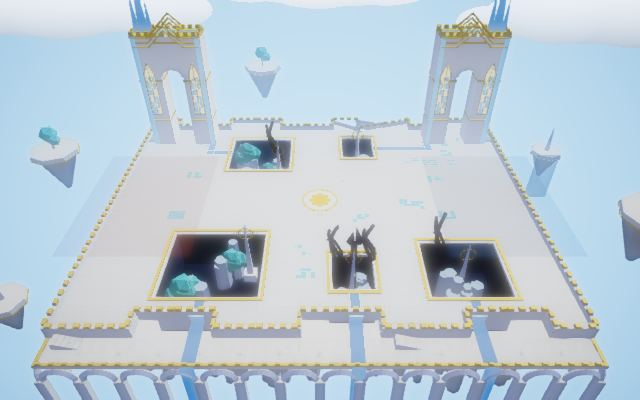
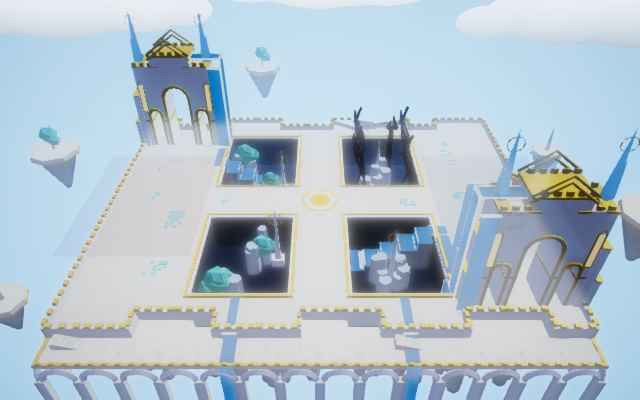
loop(608): solo map.fantasy_good 1/1 gaps approved, map.fantasy_good done, maps_4 checkpoint

Changed region(s): [[0.2188, 0.0, 1.0, 1.0], [0.1875, 0.0, 0.4688, 0.48], [0.625, 0.87, 0.6562, 1.0]]

diff --git a/loop/LEDGER.md b/loop/LEDGER.md
@@ -3,13 +3,7 @@
 Rows: `file:identifier | value | last iter | verdict | earlier values`. P: no approved reversal within 20 iterations; two failed polish attempts spend a row. S/R replace mechanisms. The unit phase's ledger is `loop/archive/v4/LEDGER.md`.
 
 ## Structural attempts (iter | sha | item.criterion | verdict)
-607 | [R] 0911dd25 | map.fantasy_good.a2 | approve, no strike (opaque gate water, far-wall falls)
-607 | [R] 5fcb8b7d | map.fantasy_good.a2 | reject, reverted ab3f294e (flat panels; colour re-nudge of 9b0909fd)
-607 | [R] b8072e41 | map.fantasy_good.a2 | approve, no strike (stepped hex-column cascades)
-606 | [R] 57397d50 | map.fantasy_good.b1-2 | approve,struck1,2 (quadrant wells, diagonal gates); CONFIRM a,b PASS
-606 | [R] 6d627f50 | map.fantasy_good.a1-2 | approve,struck1 (multi-bay gatehouses)
-606 | [R] 9b0909fd | map.fantasy_good.a2 | approve, no strike (fog-off cyan sheets)
-606 | [R] 628c2755 | map.fantasy_good.a2 | reject, reverted 639fec40 (curtains read as pale glass in _top)
+608 | [R] cff61026 | map.fantasy_good.a2 | approve,struck2 (field-side gate sheets into deck channels, gates out of glow); CONFIRM 606 a -> D
 605 | [R] fc3db046 | map.fantasy_evil.b1 | reject, rejected-kept (revert conflicts); 6 m routes, edge chambers; centre stayed solid
 605 | [R] 18965679 | map.fantasy_evil.a1-2 | approve,struck2 (ledge mushroom pads); a1 slab/gate/no-monument clauses cleared
 605 | [R] 89f441c4 | map.fantasy_evil.b1 | approve,struck1 (sunken central pit, front/back chambers, 8 m causeways)
@@ -22,27 +16,17 @@ Rows: `file:identifier | value | last iter | verdict | earlier values`. P: no ap
 602 | c3b103ee | map.pirate.b2 | approve,struck2; CONFIRM b PASS -> D
 
 ## Done maps (rows compacted; the maps are D and never tuned again)
-tribal_1, tribal_2, tribal_sandbox, farmer_1, farmer_2, farmer_snow, medieval_1, medieval_2, viking, viking_sandbox, ancient_1, ancient_sandbox, legacy (576-584), wild_west, ancient_2, renaissance, spooky_1 (565-587), simulation, hill, bridge, corridor (587-591), low_ground, defend_the_castle (588-592), high_ground (589-599), pirate (576-602), dynasty (576-603), spooky_2 (578-604), fantasy_evil (590-605): every row approved and CONFIRMed; values in their builders' spec comments and git log `loop(5xx)`.
+tribal_1, tribal_2, tribal_sandbox, farmer_1, farmer_2, farmer_snow, medieval_1, medieval_2, viking, viking_sandbox, ancient_1, ancient_sandbox, legacy (576-584), wild_west, ancient_2, renaissance, spooky_1 (565-587), simulation, hill, bridge, corridor (587-591), low_ground, defend_the_castle (588-592), high_ground (589-599), pirate (576-602), dynasty (576-603), spooky_2 (578-604), fantasy_evil (590-605), fantasy_good (587-608): every row approved and CONFIRMed; values in their builders' spec comments and git log `loop(5xx)`.
 
 ## Tuned values
-web/src/map/tabs/fantasy_good.ts:viaductUnderside front | z-46.06 crown-3.2/spring-5.9/foot-14.1,5.4m openings/~7m pitch,6m returns | 601 | approve9e419281 | z-40.06 crown-1.6/spring-4.3/foot-12.5 masked by ledge
 web/src/campaign/stagePresentation.ts:tiniestSummit | stage-only18x16m hill(20,-9.9),crest6.5,height+cleanup | 601 | approvec283afb0 | flat Farmer
 web/src/campaign/stagePresentation.ts:rider | head xz,head/crest maxY+.08,seated joints,restore before sim | 601 | approvea744ccde,c0d6c20a,799d316d | torso-local anchors hidden;flat Halfling
 web/src/campaign/stagePresentation.ts:wheelbarrowArchCrown; stages/adventure.ts:wheelbarrow | cap(1.2,7.15,10)8x.5x3.6 top7.4,cart+crew lift;actor(2.6,10) | 601 | approve5f92ad8a | absent cap/lift;actor(29,0)
 loop/scripts/capture-world.mjs:fantasyEvil poses, pirate army | island targety16 radius230, top targety12 radius160; Pirate stage army targety8.2 | 600 | evidence685f65a9,ce687e96 validated | Evil island targety8 radius200, top default; Pirate army targety1
-web/src/map/tabs/fantasy_good.ts:openArcade | 1.6m rim beam; real5.4m openings/~7m pitch, 1.1x1.3m piers to-12.5, stone arch tubes r.65; basalt12..27m | 600 | approve4834759a, no strike | 12m solid rim with dark arch plates; basalt3..16m
-web/src/map/tabs/fantasy_good.ts:gateFacades | lancets10..25.5m, 18mosaic panes/window, pointed gold frame, triple peaked bands31.7..36m on both faces | 600 | approve79aae0c6, struck a2 | rectangular yellow panes with grid and tiny diagonal tips; gate size/spires unchanged
-web/src/map/tabs/fantasy_good.ts:frontFallSpill | 2m fall to ledge, spill toz-46.35, 22m opaque drop +6m alpha fade | 600 | approve a44979d1 [P], no strike; spill visible, fade uncredited | continuous30m drop at deck rim through ledge
 web/src/campaign/stages/adventure.ts:a_fierce_rider | Mammoth leaderx2,z0, wingsx3.5,z+-4.6, rearx7,z-5.6/0/5.6; Halfling unchanged | 600 | approve d4289c91, struck b1 | Mammoths line atx2,z-12..8 step4
 web/src/campaign/stages/adventure.ts:the_tiniest_attack | 15upper+16lower irregular crop pockets x9..41,z-25..17; two obstacle clearances; Farmer unchanged | 600 | approve ffe2e899,defaf4dd, struck b2 | Halflings regular ranks x20/22.2/24.4,z+-9.9
 loop/scripts/capture-world.mjs:evidence poses | gate runtimeId departure at20ms, radius32; Basic army beta.24/field.2; Evil island targety8; Good island220/y8, top165/y8 | 599 | evidence validated; High b CONFIRM | gate attacker never arrived; Basic .77/.72; island200/y-10, top135/y0
-web/src/map/tabs/fantasy_good.ts:corruptedPits | black cracked obelisk and 4 groups of3 thorn vines, tops11..13m; r.28..38 | 599 | approve, struck a5 | absent; first vines buried in pits
-web/src/map/tabs/fantasy_good.ts:rearJog | x12..28 z32..40 band sheared by6m taper; deck/rim/kerb/parapet/arches and cut colliders | 599 | approve, struck b2 | stepped rear only
 web/src/map/tabs/ancient_1.ts:street placement zones | append4m street strips x+-(2..25), z+-10; original plazas first | 599 | stage/play PASS, formation CONFIRM D | plazas x+-(25..55) only
 web/src/map/tabs/viking.ts:innerIce zones | append x+-(1..27), z+-20; original outer zones first | 599 | stage/play PASS, formation CONFIRM D | inherited Challenge x+-(27..61) only
-web/src/map/tabs/fantasy_good.ts:pitShafts, waterfalls, frontLedge | floor (.08,.1,.16); navy liners; 6-10 hex columns r 1-2.1 tops -1.2..-6.5 (.55,.62,.72) self .3; channels 1.8 m to back pits, 3 front falls 30 m (.25,.62,1.05); ledge z -46..-40 at y -2, stairs x -50, 14 | 597 | approve | -
 web/src/campaign/stages/introduction.ts:all6 stages | approved + CONFIRMed D597-599; final formations in source/git loop(597..599); rows compacted | 599 | approve | scaffold rows
-web/src/map/tabs/fantasy_good.ts:PITS | 5 pits: tree x -34..-12 z -32..-12, obelisk 2..12 z -30..-19, open 22..40 z -32..-15, tree -26..-8 z 13..30, obelisk 6..16 z 19..31; 10 m deep, floor (.24,.3,.42) self (.06,.08,.12) | 596 | approve, struck b1 | 592: four x 6..30 z 9..30
-web/src/map/tabs/fantasy_good.ts:cleanDeck | boulder/hill/wallStone/pebble/stump/hayBale/Sanctum junk hidden with colliders; 16 inlay patches 4 x 3 x 1 m, ~half teal (.2,.62,.6), some aqua (.45,.78,.76), self .35 | 596 | approve, struck a6 | dressing on the deck
-web/src/map/tabs/fantasy_good.ts:EDGE_STEPS, viaductUnderside, sideIslets, gateTowers, openCentre, parapets, marbleDeck, heavenSky | long edges step 4 m at u -36..-20, -4..12, 28..44; arches 4 x 6.5 m every 6 m; 5 islets; towers (+-40,30) legs 6 x 19 m, glass, water; gold ring 8.5 m; merlons every 2.4 m; pavers (236,240,244); sky (112,182,228) | 595 | approve (591-595); [P] eligible to 598: arch heads rotation (PI/2,0,0), columns longer | base temple, tree ring
 web/src/map/tabs/simKit.ts:paleSky/untoned, cloudBanks, gridMaterial | sky untoned (186,207,210)/(216,228,227); banks z 200-240 y -22..-12 untoned white; 1 m grid tiles | 591 | approve (588-591) | teal sky, banks out of frame

diff --git a/loop/LESSONS.md b/loop/LESSONS.md
@@ -26,7 +26,7 @@ Read at step 1; merge near cap. Unit-phase lessons: loop/archive/v4/LESSONS.md.
 
 ## Maps and stages
 - Inherited placement zones can omit clear streets or inner ice. Append valid side-specific strips, keeping the original skirmish zone first (599).
-- The sim's ground is flat (body.root at y 0); terrain.ts lifts every dynamic root node by MapBuildResult.height at draw time and recomputes its world matrices after, so battles are identical with or without height (checked on Hill). Map meshes are marked static by trackMapBuild: a map builder seats its own props at groundHeightAt(). Nav and placement still come from zones, obstacles and hazards. An effect whose root sits at the origin with world-placed children is lifted by the height at the origin: give such roots their own position.
+- The sim ground is flat (root y 0); terrain.ts lifts dynamic roots by MapBuildResult.height at draw time and recomputes world matrices after, so battles are identical with or without height (Hill). Map meshes are static (trackMapBuild): a builder seats props at groundHeightAt(). Nav/placement come from zones, obstacles, hazards. An effect rooted at the origin with world-placed children is lifted by the origin height: give such roots their own position.
 - terrainMesh winds its grid to face +y; skirts are double-sided. The placement centre line and zone overlays stay flat (they are map meshes).
 - A TABS map without a builder in web/src/map/tabs/ is its base map (tabsMaps.ts); several maps share a base, so a base edit moves all of them and the regression scenarios on campaign.adventure.
 - Clear base props by name after base(), removing only their colliders (ring trees have them too). Keep builders self-contained so reverts never conflict. Base "hill" mounds and odd ground discs are base meshes: hide by name (587).
@@ -41,7 +41,7 @@ Read at step 1; merge near cap. Unit-phase lessons: loop/archive/v4/LESSONS.md.
 - Round island (560): base lawn ("ground", "centerGrass") and underside follow islandRim (superellipse 54x48, power 3); remap radially. hazeTreeline (merged grey balls at |z| 37.5-40.5) reads as a boulder chain: hide it whole (pirate 585). Base trunks are unparented.
 - Scene fog is linear and re-keyed every frame by main.ts (fogStart/End from the camera radius): a map's fogDensity does nothing. Draw haze instead (inside-facing translucent mist walls, viking 572).
 - Farmer base ring trees are oaks ("oakCrown" lumps on oakLeaves/oakLeavesDark): recolour those, not canopy (561). A raised drawn-only set piece can carry units via MapBuildResult.height (farmer_1 bridgeHeight).
-- A ribbon's facing follows its path order (SSAO greys a DOUBLESIDE one's inward faces): a down-facing deck renders black; check the first normal after convertToFlatShadedMesh and flipFaces(true) when wrong (561; viking bankFace 574 went near black). An underside facing away from the sun needs self-light ~1x its colour or it reads near black.
+- A ribbon faces by path order (SSAO greys a DOUBLESIDE one inside): a down-facing deck renders black; check the first normal after convertToFlatShadedMesh, flipFaces(true) if wrong (561, 574). An underside away from the sun needs self-light ~1x its colour.
 - Read stage armies from the stage files, not Notes (tribal_2 563). campaign.challenge zones reach x +-61, past the 54 m rim: a builder that walls the field clips placementZones inside it.
 - Upright tessellation-5/6 cylinders with flat tops read as basalt columns or a palisade (563): a rock mass wants heaped faceted boulders or tilted slabs, few and large, of unequal size (spooky_1 583: equal rocks read as an even band).
 - Stage enemy positions are validated against the map's team-1 zone, hazards and obstacles (game.checkStage): a map change can misplace a stage's army (the checkpoint re-judges every stage on a finished map batch).
@@ -56,7 +56,8 @@ Read at step 1; merge near cap. Unit-phase lessons: loop/archive/v4/LESSONS.md.
 - Grass: thin-instance fans of six blades, normals up (583); flattened IcoSpheres read as paving from low cameras, leaf cards as beige flags (571).
 - MergeMeshes: null past 65536 verts unless (parts,true,true); throws on mixed attributes (VertexData needs uvs); a throwing build leaks into later maps (593).
 - A boulder heap receiving shadows goes near black: receiveShadows off, self .6 (583); slate (.09) vanishes on a void sky (595). Back cliff ledges with a skirt (584).
-- Builder hazards get no overlay: draw them (578). Self-lit/pale meshes in the glow bloom white, a lit crag on the void a blur: exclude them (584-597).
+- Builder hazards get no overlay: draw them (578). Self-lit/pale meshes in the glow bloom white and veil nearby water: exclude them (584-608).
+- Water from a structure is credited only as one run visible in the named shot (source face, channel, cascade); loose pieces read as tiles (608).
 - Stage _army: camera west of the line, -z on the right; roofs can hide ranks. Use a high view for street armies (583,599).
 - HeightField lifts passers-by onto roofs: actor-only seats need paired render observers, restored transforms before simulation and cleanup on reset (598,601).
 - The island cam never sees under the slab: a backdrop or rock mass must rise above the deck behind the rim (fantasy_evil 596). Notches: ~8 m hide under trees/rocks; pushing radial floor verts to a cut's nearest edge bevels it (596, 598).

diff --git a/loop/STATE.md b/loop/STATE.md
@@ -1,6 +1,5 @@
 # Loop state (v11: maps then stages; solo mode for stuck items; locked-list CONFIRM before done)
-Iteration: 607   Batch: maps_4+stages_adventure   Consecutive empty: 0   Done: 37/99   Parked: 0
-Solo: map.fantasy_good   Queue: (empty)   Rounds: 6   Dry: 5
+Iteration: 608   Batch: stages_adventure   Consecutive empty: 0   Done: 38/99   Parked: 0
 Batches, in order: maps_1, maps_2, maps_3, maps_4, stages_introduction, stages_adventure, stages_challenge, stages_dynasty, stages_renaissance, stages_pirate, stages_spooky, stages_simulation, stages_wild_west, stages_legacy, stages_fantasy_good, stages_fantasy_evil
 <!-- Item template: # <id>; Status: open|done|parked Audited: N(AUDIT x2),N(CONFIRM: passed a; failed b) Done: N
 ## Verdicts: a FAIL (0 since N; list from AUDIT|CONFIRM N): 1. <blocker verbatim> s2. <element> in <shot> (struck N) / a PASS(N: struck n; CONFIRM N); b likewise; c PASS(N judge) / c FAIL(N judge): <reasons>
@@ -12,7 +11,7 @@ Marks per a b c: + pass,- fail,? unscored. Status q queued,o open,D done,p parke
 maps_1: tribal_1 +++ D | tribal_2 +++ D | tribal_sandbox +++ D | farmer_1 +++ D | farmer_2 +++ D | farmer_snow +++ D
 maps_2: medieval_1 +++ D | medieval_2 +++ D | ancient_1 +++ D | ancient_2 +++ D | ancient_sandbox +++ D | viking +++ D | viking_sandbox +++ D
 maps_3: dynasty +++ D | renaissance +++ D | pirate +++ D | spooky_1 +++ D | spooky_2 +++ D | wild_west +++ D | legacy +++ D
-maps_4: fantasy_good -++ o | fantasy_evil +++ D | simulation +++ D | bridge +++ D | hill +++ D | corridor +++ D | defend_the_castle +++ D | high_ground +++ D | low_ground +++ D
+maps_4: fantasy_good +++ D | fantasy_evil +++ D | simulation +++ D | bridge +++ D | hill +++ D | corridor +++ D | defend_the_castle +++ D | high_ground +++ D | low_ground +++ D
 stages_introduction: clubs +++ D | army +++ D | hay_and_pitchforks +++ D | basic_formation +++ D | ice_archers_only_almost +++ D | longships +++ D
 stages_adventure: tree_tribe +-+ o | the_tiniest_attack +++ D | sneaky_tribe +-+ o | tree_mammoths +-+ o | final_destination_wheelbarrow +++ D | a_fierce_rider +++ D
 stages_challenge: ice_archer_and_friends ??? q | knights_and_priests ??? q | a_warm_welcome ??? q | zeus ??? q | twin_lords ??? q | big_brawl ??? q
@@ -26,18 +25,18 @@ stages_legacy: siege ??? q | a_tank ??? q | the_war ??? q | thor_s_battle ??? q
 stages_fantasy_good: colossal_spike ??? q | royal_archers ??? q | clash_of_warriors ??? q | chaotic_cavalry ??? q | vicious_terror ??? q | fortified_formation ??? q
 stages_fantasy_evil: encircling_tribe ??? q | raze_the_homestead ??? q | farmer_uprising_evil ??? q | storm_the_fortress ??? q | blasted_skirmish ??? q | dismantle_the_spears ??? q
 
-## Focus (iter607 solo map.fantasy_good, 3 rounds: 3 [R]; BASE dfe21e11)
-- r1 [R] a2 (0911dd25) APPROVE, no strike; r2 [R] a2 (5fcb8b7d) REJECT, reverted ab3f294e; r3 [R] a2 (b8072e41) APPROVE, no strike
-- 2/3, 0 struck
+## Focus (iter608 solo map.fantasy_good, 1 round: 1 [R]; BASE c55e159f)
+- r1 [R] a2 (cff61026) APPROVE, struck 2 -> a PASS (CONFIRM 606 on the locked list) -> D
+- 1/1, 1 struck
 
 ## Last verdicts (critic header lines verbatim)
-GAP: [R] map.fantasy_good (b8072e41)
+GAP: [R] map.fantasy_good (cff61026)
 VERDICT: APPROVE
-CRITERION: map.fantasy_good.a FAIL   (previous: FAIL)
-REGRESSIONS: none
+CRITERION: map.fantasy_good.a PASS   (previous: FAIL)
+REGRESSIONS: none (b's quadrant wells, diagonal gates and open centre are unchanged in _top, _island and _battle. The obelisk move stays inside an existing well. c: judge.json PASS; the skirmish ended at 25 s with nobody in a hazard.)
 
 ## Notes for next iteration (max5lines)
-- 607 solo fantasy_good (iter-607/critic.md, -r2, -r3): a2 (gate waterfalls) still open; b confirmed; a CONFIRMed 606, so a critic PASS on a2 makes it D.
-- Dry 5: the next round with no strike parks a (p). Next: [R] a2 per the item's Ranked gap (one continuous stream, vines out, foam at lips only; no colour-only change).
-- When fantasy_good is D or p: drop Solo, run the maps_4 checkpoint (step 8), batch mode resumes at stages_adventure (3 open).
+- 608: map.fantasy_good D (iter-608/critic.md); solo mode ended (Queue empty). Thumbnail refreshed.
+- maps_4 checkpoint: 7 stages on its maps (legacy.siege, simulation.*) a/c PASS (iter-608 judge.json); regression-only GREEN 12/12 (iter-608/summary.smoke.json); maps_4 dropped from Batch.
+- Next: batch mode on stages_adventure: tree_tribe, sneaky_tribe, tree_mammoths open on b (formation).
 - v11 (user, 2026-11-19): solo mode to D or Dry:6 park. CONFIRM notes on done maps live in their item files, not blockers.

diff --git a/loop/items/map.fantasy_good.md b/loop/items/map.fantasy_good.md
@@ -1,21 +1,21 @@
 # map.fantasy_good
-Status: open   Audited: 587 (AUDIT x2), 595 (CONFIRM: failed a,b), 601 (CONFIRM: failed a,b), 606 (CONFIRM: passed a, b)   Done: -
+Status: done   Audited: 587 (AUDIT x2), 595 (CONFIRM: failed a,b), 601 (CONFIRM: failed a,b), 606 (CONFIRM: passed a, b)   Done: 608
 ## Verdicts
-a FAIL (plateau; 0 since601; list from CONFIRM 601; CONFIRM 606 passed a on this list): s1. Shrine gate silhouettes in map_fantasy_good_island.png (struck 606) 2. Shrine waterfalls in map_fantasy_good_top.png — TABS: conspicuous cyan channels descending beside the gates into the deep wells, rather than only small flat blue strips beside otherwise dry portals (ref: reference/maps/wiki/fantasy_good.png).
+a PASS (608: struck 2; 606: struck 1; CONFIRM 606)
 b PASS (606: struck 1, 2; CONFIRM 606)
-c PASS (607 judge)
+c PASS (608 judge)
 ## Ranked gaps
-1. [R] a2 one continuous stream per gate (critic 607 r3): a cyan sheet down the end buttress's FIELD-side face into the deck channel, the channel bright, then the stepped ledges (b8072e41, kept); vines (13,-20), (-24,9) moved out to the obelisk wells; rocks mid-grey; foam only at lips (no vertical stripes). A new mechanism, not a colour re-nudge (607 r2 was rejected as one) — ref: reference/maps/wiki/fantasy_good.png lower right — ours: map_fantasy_good_top.png
+(none)
 ## Attempts (iter | gap | criterion | verdict)
+608 | [R] field-side gate sheets into deck channels, gates out of glow, vines to obelisk well, mid-grey rock cff61026 | a2 | APPROVE, struck 2 -> a PASS, D
 607 r3 | [R] stepped hex-column cascades from gate channels b8072e41 | a2 | APPROVE, no strike
-607 r2 | [R] gate stone out of glow, deeper cyan, foam streaks 5fcb8b7d | a2 | REJECT (flat panels; colour re-nudge), reverted ab3f294e
+607 r2 | [R] gate stone out of glow, deeper cyan, foam streaks 5fcb8b7d | a2 | REJECT, reverted ab3f294e
 607 | [R] opaque gate water on merlons, end curtains, 8 m far-wall falls 0911dd25 | a2 | APPROVE, no strike
-606 | [R] wells/diagonal gates 57397d50; gatehouses 6d627f50; sheets 9b0909fd; curtains 628c2755 (rejected) | b1,b2,a1,a2 | struck b1,b2,a1; CONFIRM a,b PASS
-591-601 | builder/deck/pits/parapets/towers/sky/islets/arcade/corruption | a,b | old lists struck; CONFIRM 595, 601 failed a,b
+591-606 | builder/deck/pits/gates/towers/sky/islets/arcade/corruption/wells | a,b | old lists struck; CONFIRM 595, 601 failed; 606 passed a,b
 ## Rejected (last 4)
-607 r2 | [R] a2 5fcb8b7d | flat wall panels, streaks unseen; water colour counted as a re-nudge of 9b0909fd
-606 r3 | [R] a2 628c2755 | gate curtains read as translucent pale glass from the top camera; crest hidden by merlons
+607 r2 | [R] a2 5fcb8b7d | flat wall panels; water colour counted as a re-nudge of 9b0909fd
+606 r3 | [R] a2 628c2755 | gate curtains read as translucent pale glass from the top camera
 ## Notes (max 3 lines)
-- No stage. b confirmed (606). a: a critic PASS on a2 makes it D (CONFIRM 606 passed a). Dry 5: one more round with no strike parks a.
-- Gate water reads pale because the glow layer blooms the white gate stone and marble over it (pixels ~(143,173,203) vs (0,126,196) in the wells); excluding the tower stone from glow fixed it (607 r2, reverted with that gap).
-- CONFIRM notes (not blockers): gold arch faces thin trims, wells rectangular with plain plaza flanks, water paler than wiki cyan.
+- Done 608: a confirmed by CONFIRM 606 on the locked list, critic 608 struck its last blocker.
+- Critic polish notes (not blockers): water royal blue vs TABS pale cyan with foam bands; right gate's -z sheet reads translucent.
+- Gate meshes are excluded from the glow layer (it veiled on-deck water pale).
